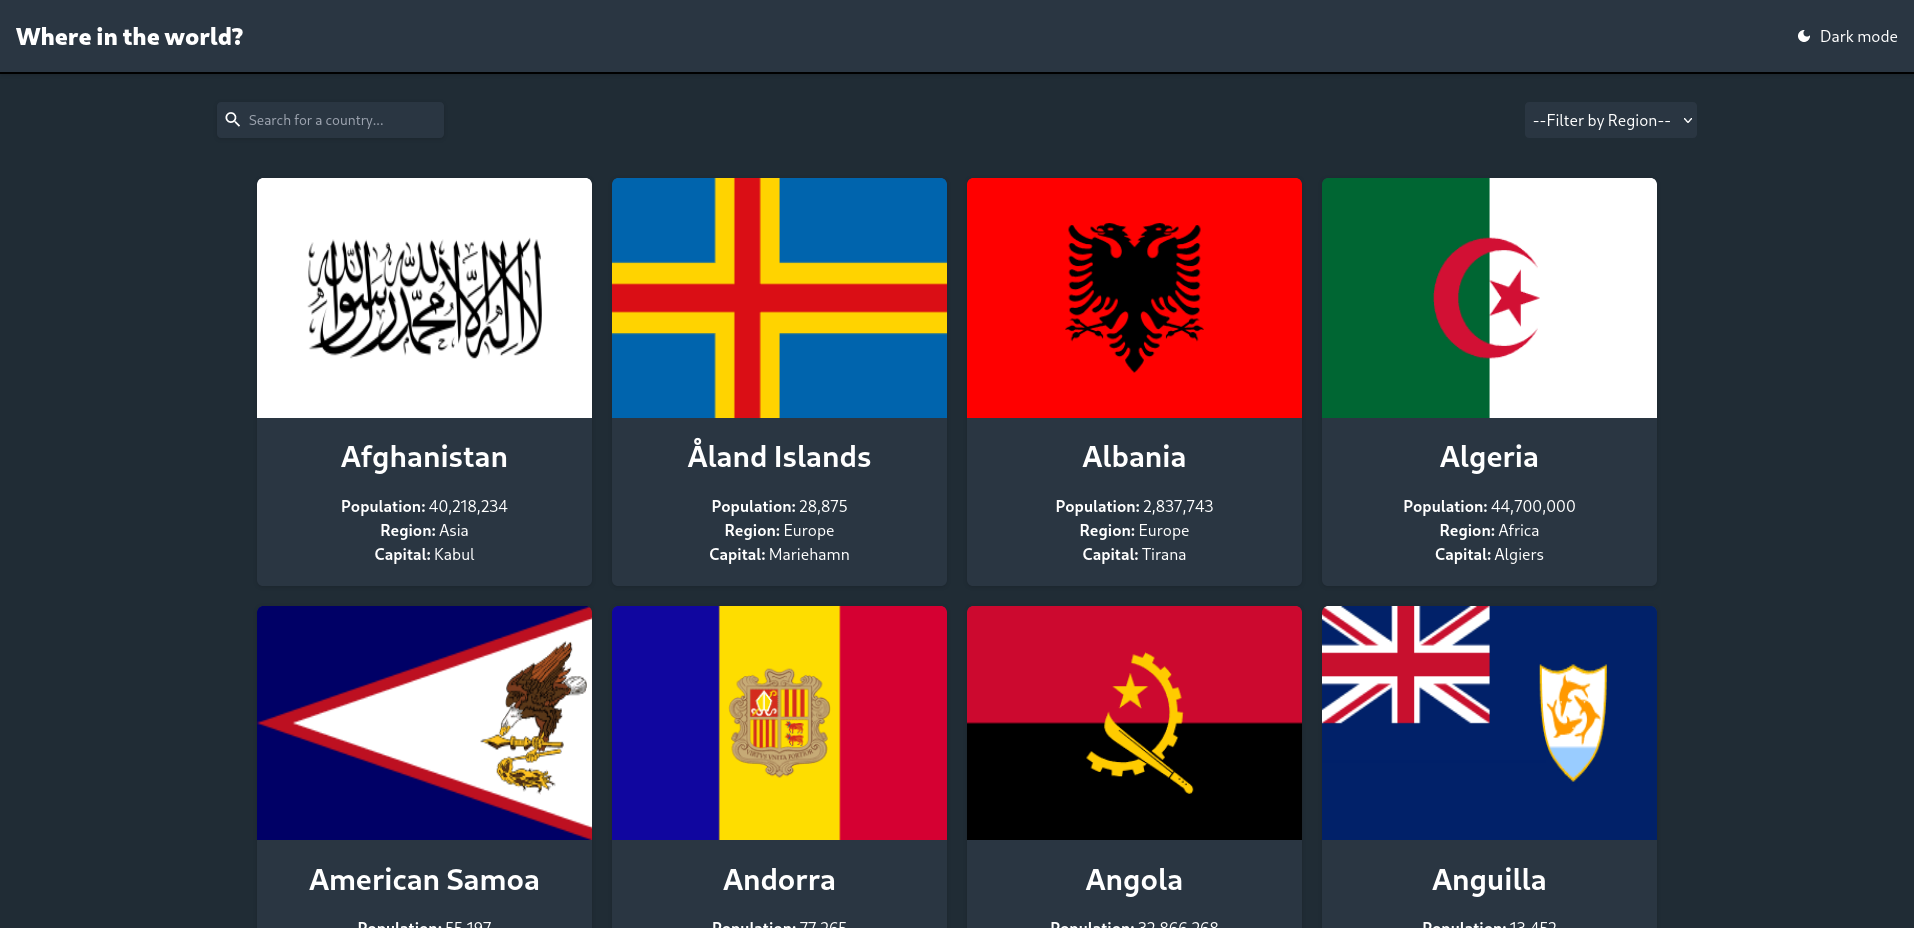
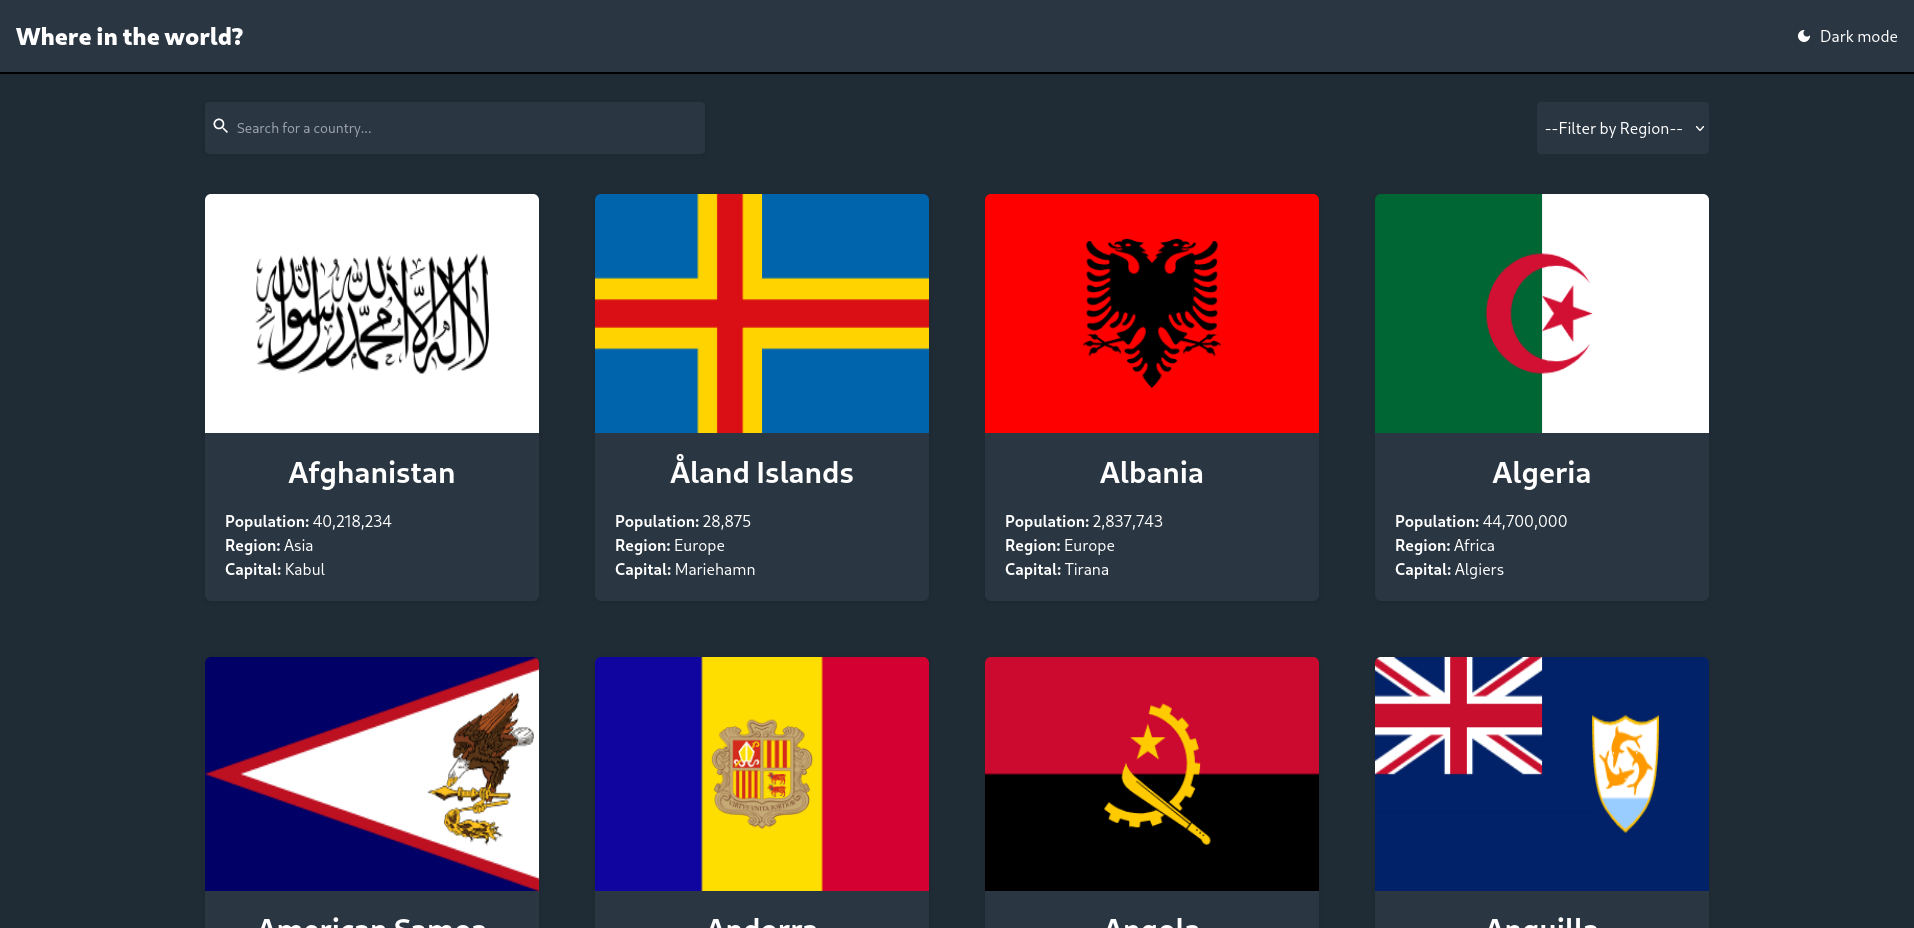
Make it look more similar to design

Changed region(s): [[0.0925, 0.1875, 0.8939, 1.0], [0.8015, 0.125, 0.8939, 0.1562], [0.1233, 0.125, 0.185, 0.1562]]

diff --git a/src/CountriesFilter.jsx b/src/CountriesFilter.jsx
@@ -37,18 +37,18 @@ export default function CountriesFilter({ data, setCountryIndex }) {
     const searchId = useId();
 
     return (
-        <main className="container mx-auto flex h-auto grow flex-col p-7">
-            <div className="mb-10 items-center lg:flex lg:justify-between">
+        <main className="container mx-auto flex h-auto grow flex-col px-4 pt-7">
+            <div className="mb-10 flex flex-col gap-5 lg:flex-row lg:justify-between">
                 <div className="relative">
                     <input
                         id={searchId}
                         onInput={handleInput}
-                        className="focus-visible:outline:none mb-5 rounded p-[.5rem] pl-[2rem] text-sm drop-shadow focus-visible:border-violet-800 dark:bg-dark-bg-front dark:text-white lg:mb-0"
+                        className="focus-visible:outline:none w-full rounded p-4 pl-[2rem] text-sm drop-shadow focus-visible:border-violet-800 dark:bg-dark-bg-front dark:text-white lg:w-[500px]"
                         type="text"
                         name="text"
                         placeholder="Search for a country..."
                     />
-                    <label htmlFor={searchId} className="absolute left-[.5rem] translate-y-[60%] scale-125">
+                    <label htmlFor={searchId} className="absolute left-[.5rem] translate-y-[100%] scale-125">
                         <MdSearch title="Search" />
                     </label>
                 </div>
@@ -66,7 +66,7 @@ export default function CountriesFilter({ data, setCountryIndex }) {
                 </select>
             </div>
             {shownCountriesCount > 0 ? (
-                <div className="grid grid-cols-1 gap-10 px-10 lg:grid-cols-4 lg:gap-5">
+                <div className="grid grid-cols-1 gap-14 lg:grid-cols-4">
                     {data.map((country, index) => {
                         if (canShow(country))
                             return (
